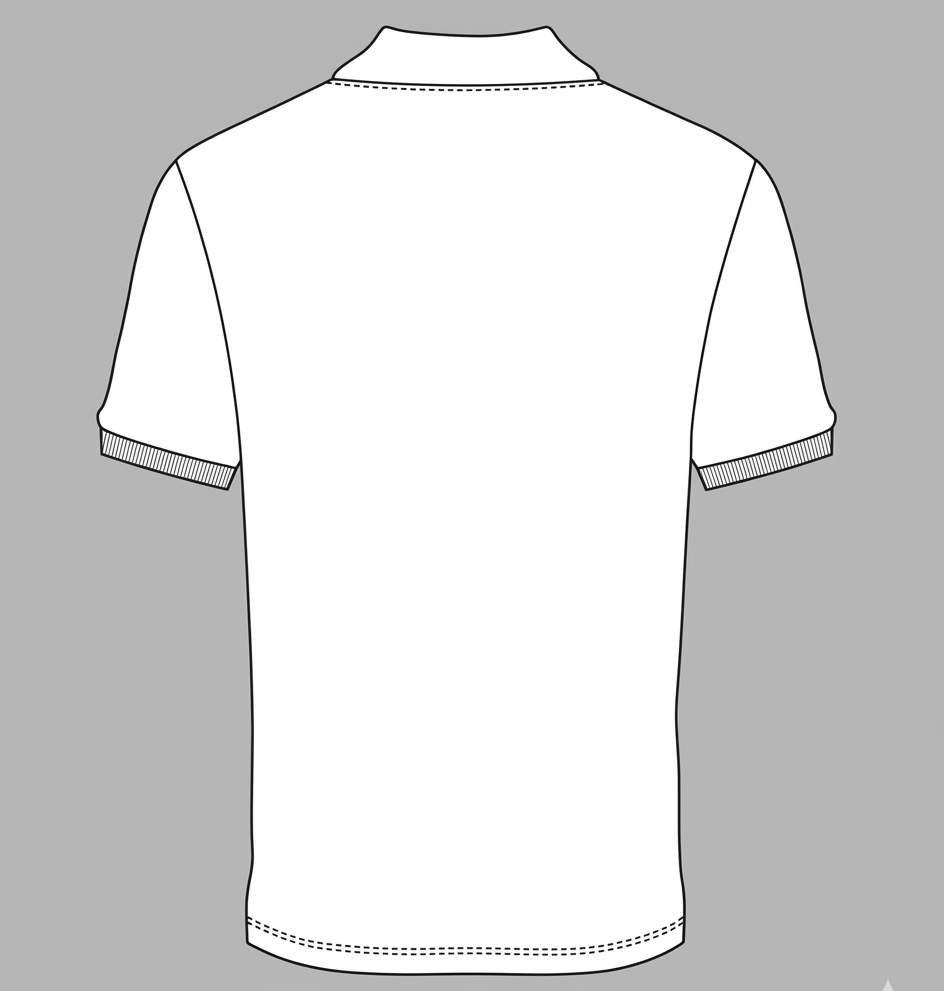
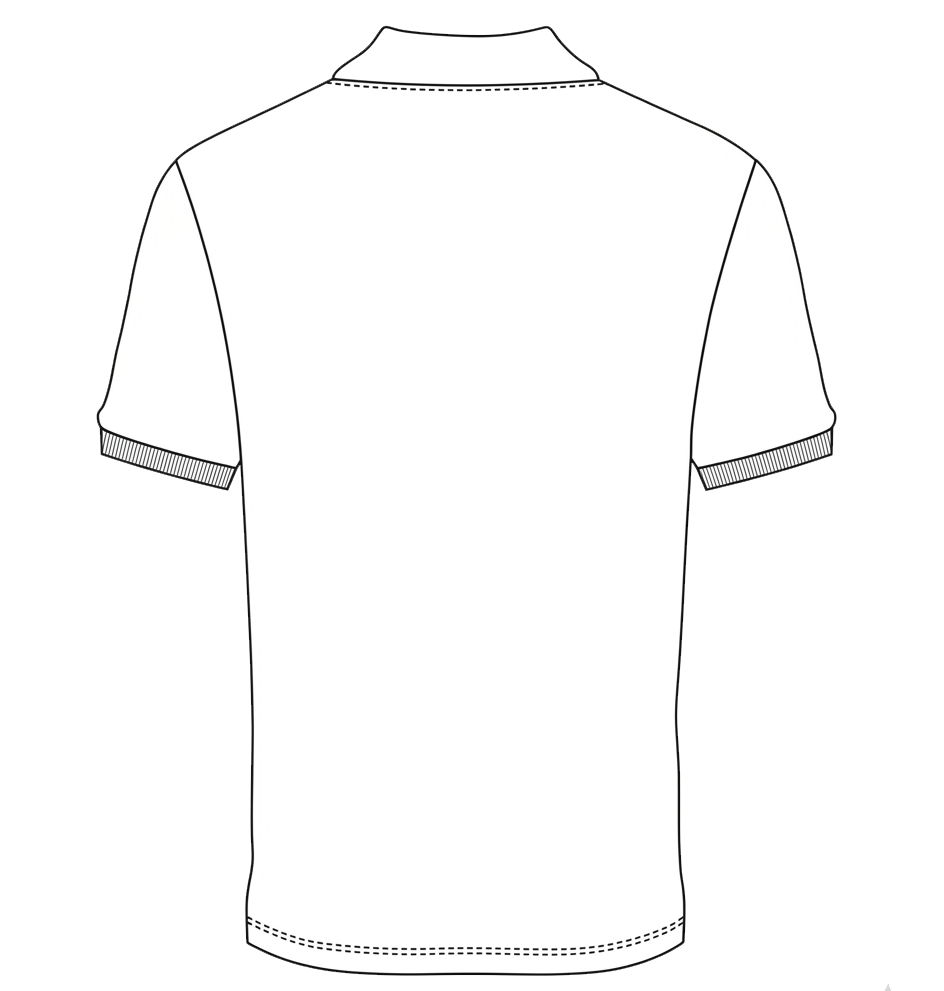
feat: add background removed garment images for custom design

diff --git a/frontend/src/pages/Custom/CustomPage.jsx b/frontend/src/pages/Custom/CustomPage.jsx
@@ -9,12 +9,12 @@ import './CustomPage.css';
 const CATEGORY_CONFIG = {
     'T-SHIRTS': {
         views: ['Front', 'Back', 'Left', 'Right'],
-        images: { Front: '/tshirt-front.jpg', Back: '/tshirt-back.jpg', Left: '/tshirt-side-left.png', Right: '/tshirt-side-right.png' },
+        images: { Front: '/tshirt-front.png', Back: '/tshirt-back.png', Left: '/tshirt-side-left.png', Right: '/tshirt-side-right.png' },
         printArea: { top: 0.22, left: 0.28, width: 0.44, height: 0.45 },
         thumbnail: '/category-tshirt.jpg',
         customizable: true,
         subImages: {
-            'CREW NECK': { Front: '/tshirt-front.jpg', Back: '/tshirt-back.jpg', Left: '/tshirt-side-left.png', Right: '/tshirt-side-right.png' },
+            'CREW NECK': { Front: '/tshirt-front.png', Back: '/tshirt-back.png', Left: '/tshirt-side-left.png', Right: '/tshirt-side-right.png' },
             'V-NECK': { Front: '/vneck-tshirt-front.png', Back: '/vneck-tshirt-back.png', Left: '/tshirt-side-left.png', Right: '/tshirt-side-right.png' },
             'POLO': { Front: '/polo-front.png', Back: '/polo-back.png', Left: '/polo-side-left.png', Right: '/polo-side-right.png' },
         },
